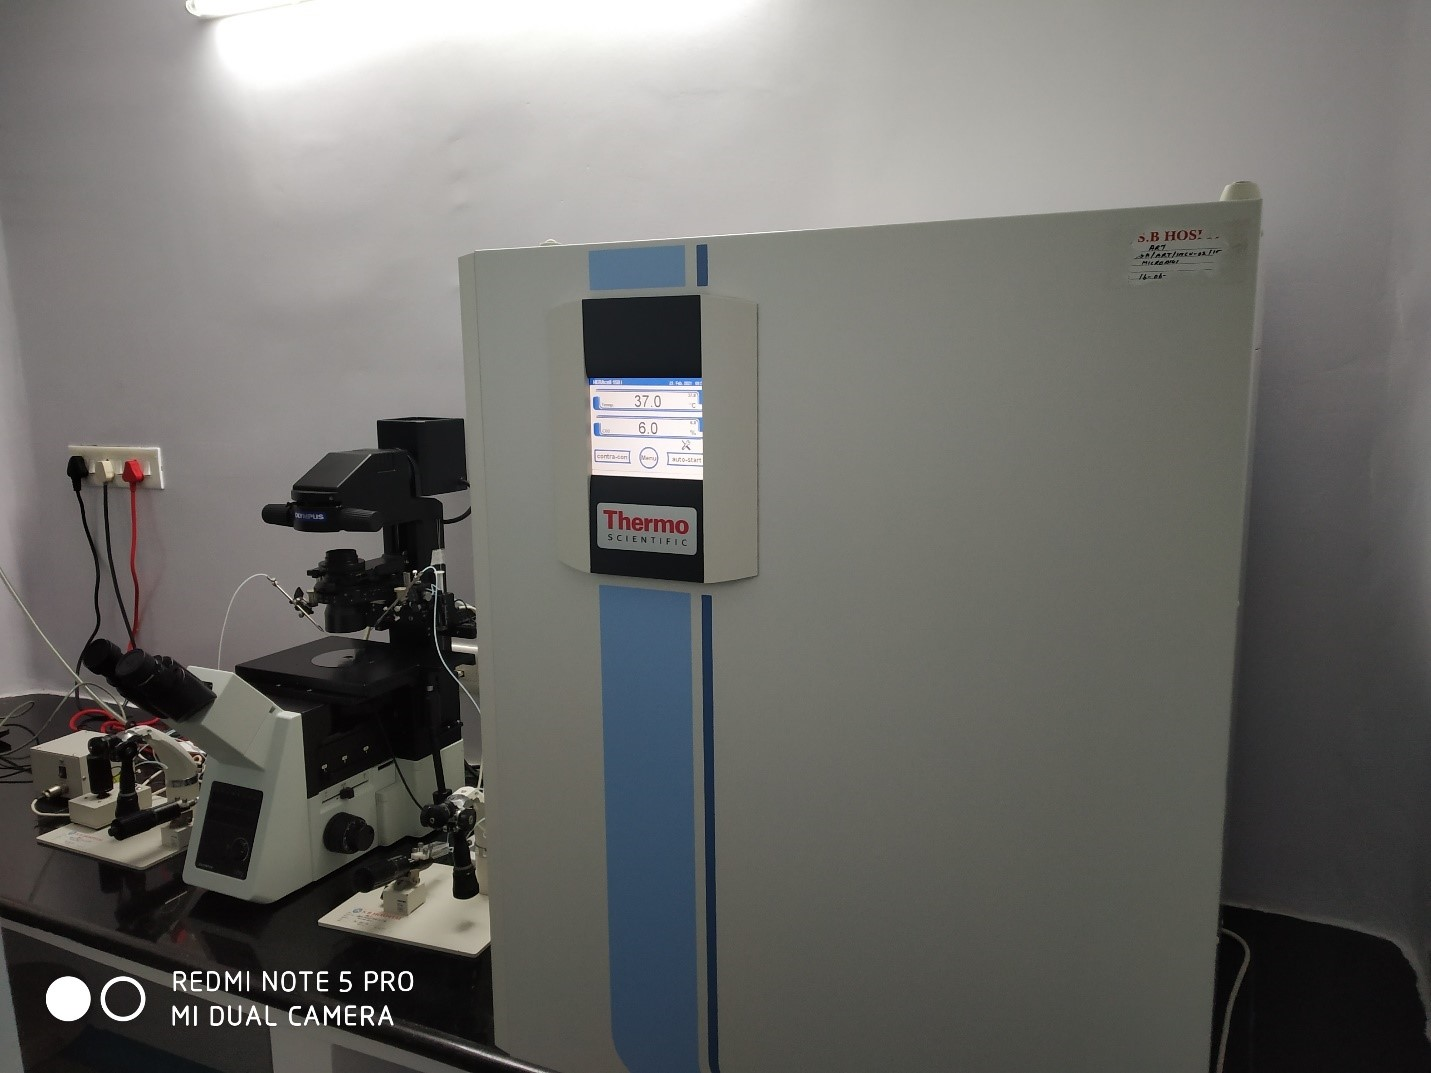
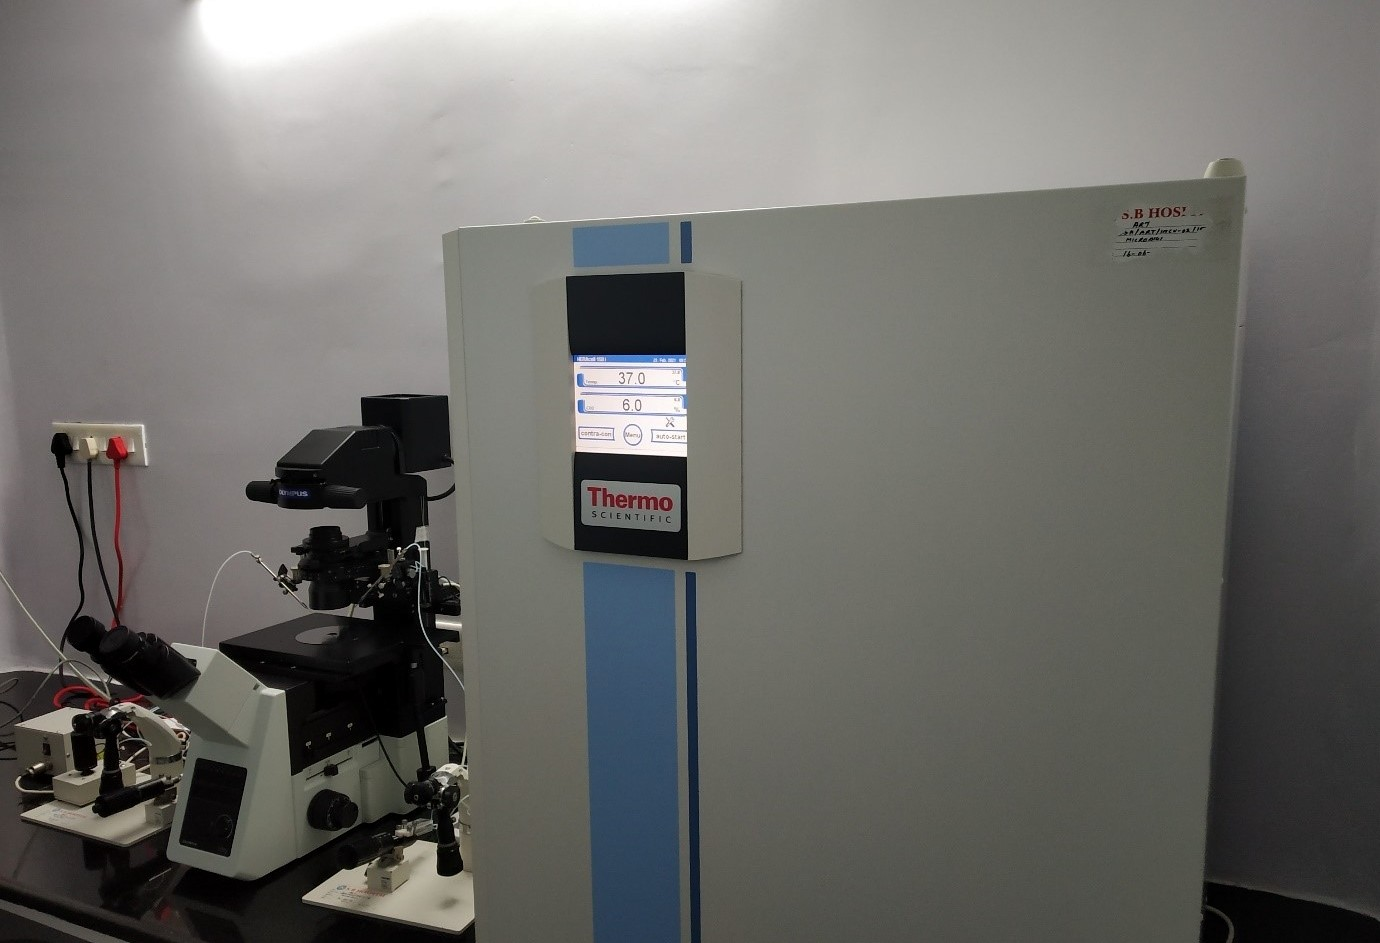
commit7

diff --git a/ICSI.html b/ICSI.html
@@ -48,6 +48,10 @@
 "<br><br><b>Micro Manipulator and Incubator</b><br>"+
                  " <img src=\"images/fertility/fert3.jpg\" width=\"50%\" height=\"50%\"><br>"+
 "<br>"+
+" <img src=\"images/fertility/icsi.jpeg\" width=\"50%\" height=\"50%\"><br>"+
+"<br>"+ " <img src=\"images/fertility//icsi2.jpeg\" width=\"50%\" height=\"50%\"><br>"+
+"<br>"+ " <img src=\"images/fertility//icsi3.jpeg\" width=\"50%\" height=\"50%\"><br>"+
+"<br>"+
                   "<b>Micro Manipulator DISH</b><br>"+
                   "<img src=\"images/fertility/fert4.jpg\" width=\"50%\" height=\"50%\"><br>";
             
@@ -62,6 +66,10 @@ document.getElementById("para1").innerHTML="";
                 
                  " <br><b>Micro Manipulator and Incubator</b><br>"+
                  " <img src=\"images/fertility/fert3.jpg\" width=\"50%\" height=\"50%\"><br>"+
+"<br>"+
+" <img src=\"images/fertility/icsi.jpeg\" width=\"50%\" height=\"50%\"><br>"+
+"<br>"+ " <img src=\"images/fertility//icsi2.jpeg\" width=\"50%\" height=\"50%\"><br>"+
+"<br>"+ " <img src=\"images/fertility//icsi3.jpeg\" width=\"50%\" height=\"50%\"><br>"+
 "<br>"+
                   "<br><b>Micro Manipulator DISH</b><br>"+
                   "<img src=\"images/fertility/fert4.jpg\" width=\"50%\" height=\"50%\"><br>";
@@ -111,6 +119,10 @@ document.getElementById("para1").innerHTML="";
                 
                   <br><br><b>Micro Manipulator and Incubator</b><bR>
                   <img src="images/fertility/fert3.jpg" width="50%" height="50%"><br>
+<br>
+<img src="images/fertility/icsi.jpeg" width="50%" height="50%"><br>
+<br> <img src="images/fertility/icsi2.jpeg" width="50%" height="50%"><br>
+<br> <img src="images/fertility/icsi3.jpeg" width="50%" height="50%"><br>
 <br>
                   <b>Micro Manipulator DISH</b><br>
                   <img src="images/fertility/fert4.jpg" width="50%" height="50%"><br>
